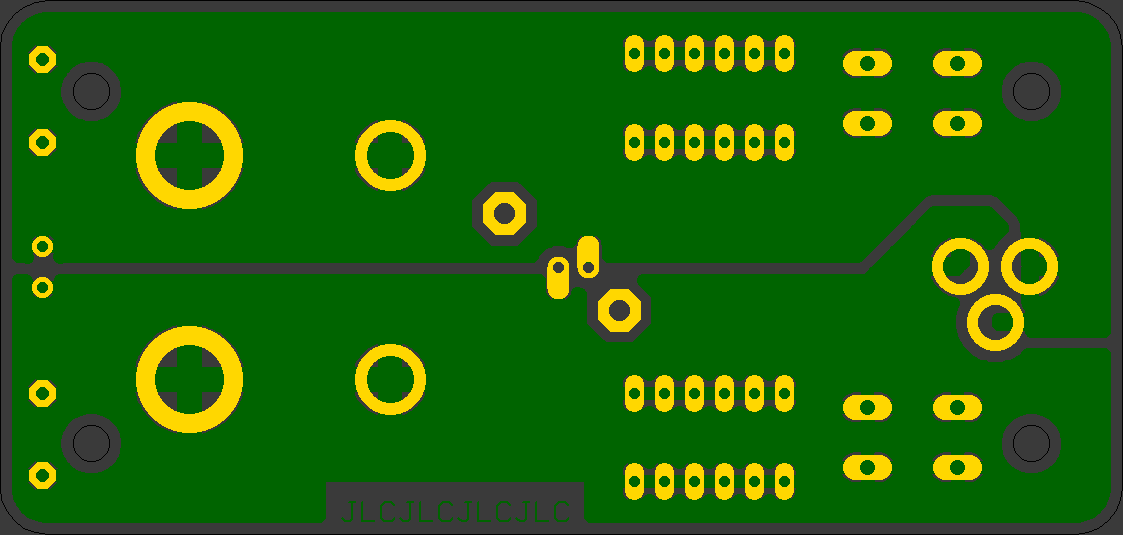
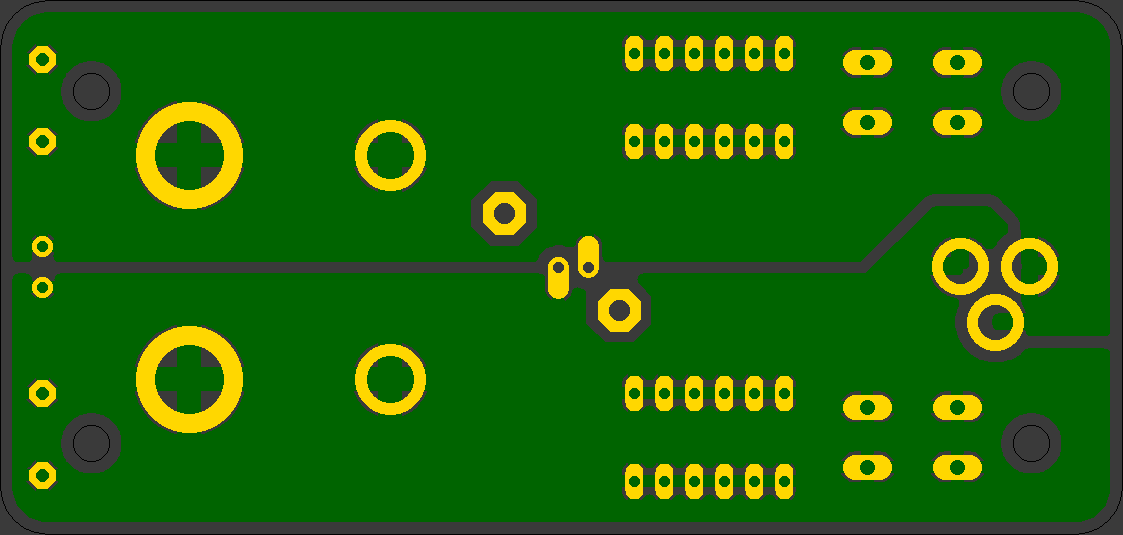
Added license and information in which format the schematic and board are in, removed placeholder for manufacturing marks

diff --git a/README.md b/README.md
@@ -1,3 +1,7 @@
 MonsieurAdaptateur is an adapter which lets you adapt between different commonly used plugs (4mm, 2mm, BNC, standard male and female pin headers, faston 6.3mm and 4.75mm, DC 2.1mm jack, scope probe).
 
 Please see the [documentation](http://felitek.de/products/moniseur-adaptateur/documentation/) and the [product page](http://felitek.de/products/moniseur-adaptateur/) for further details.
+
+Schematic and board layout were done using Eagle 6.5.
+
+
